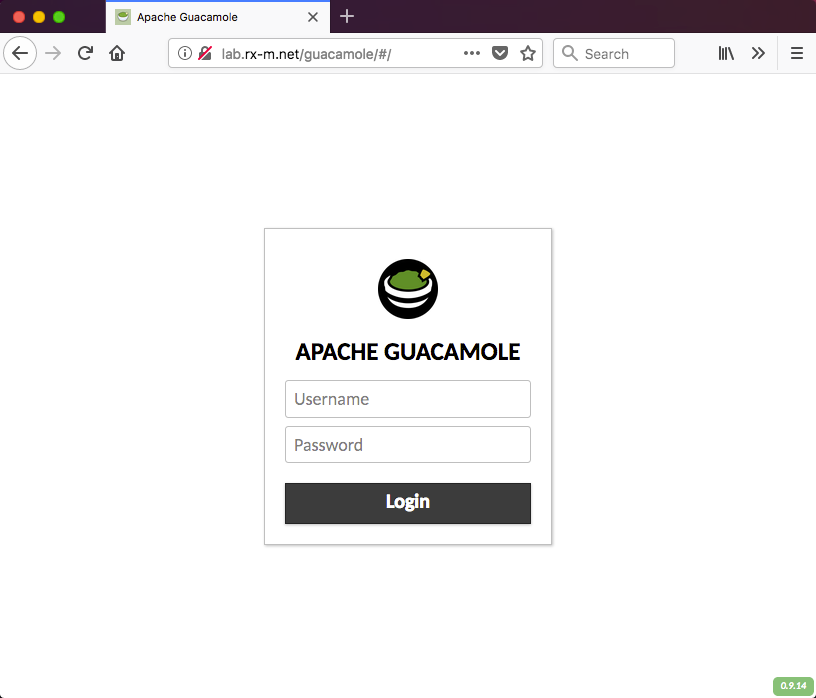
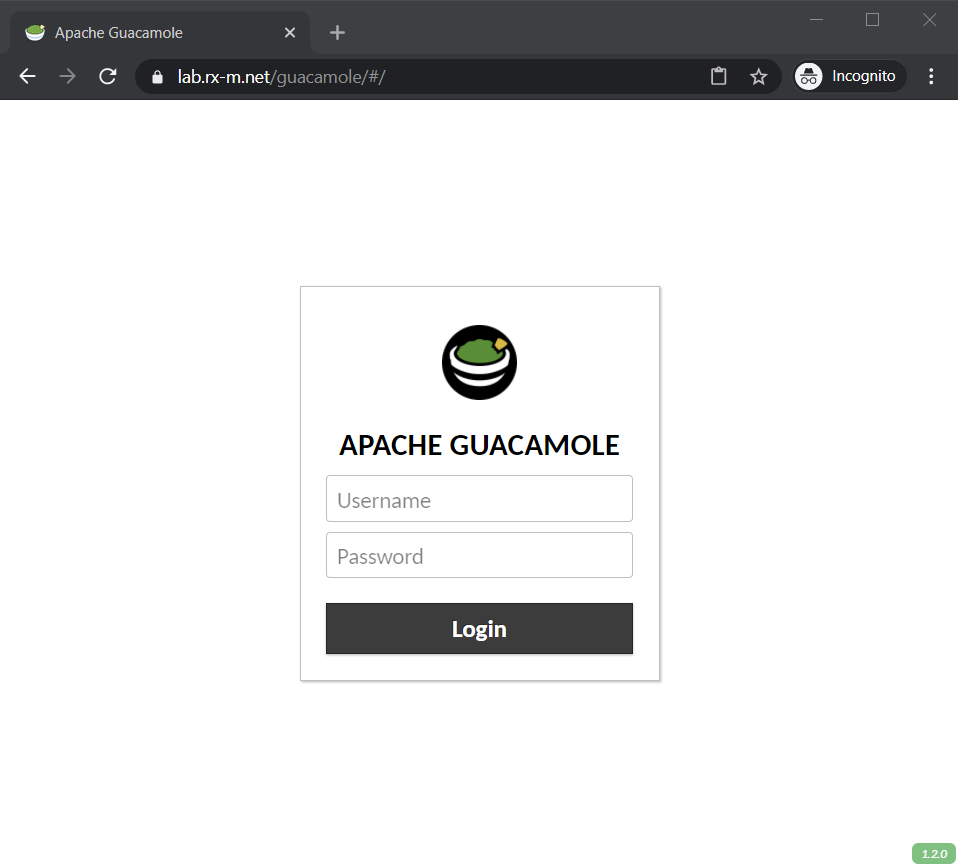
http > https in lab testing doc

Changed region(s): [[0.0, 0.0, 1.0, 0.1203], [0.3064, 0.3309, 0.7047, 0.7822], [0.9498, 0.9628, 1.0, 1.0]]

diff --git a/rx-m-hosted-lab-setup.md b/rx-m-hosted-lab-setup.md
@@ -11,7 +11,7 @@ environment in an Amazon Web Services (AWS) regional datacenter.
 
 ### RX-M hosted lab network requirements
 
-Students will need access to http://lab.rx-m.net/guacamole/ which is a clientless remote desktop gateway powered by the
+Students will need access to https://lab.rx-m.net/guacamole/ which is a clientless remote desktop gateway powered by the
 open source Apache Guacamole project and backed by an AWS Elastic Compute Cloud (EC2) virtual machine instance. From
 this gateway, students will have access to the lab environment and any related resources associated with the training
 class.
@@ -42,11 +42,11 @@ can be allowed upon request by customers/partners.)
 To access the RX-M hosted lab environment, use an HTML5-compatible browser, such as Firefox, Internet Explorer 10 or
 higher, or Google Chrome
 
-1. Open your Internet browser and go to http://lab.rx-m.net/guacamole/
+1. Open your Internet browser and go to https://lab.rx-m.net/guacamole/
 
 <br><img alt="login" width="400px" src="./images/01-login-page.png"/><br>
 
-2. Log in as `student01` with the password `ubuntu`
+2. Log in with the username and password provided by RX-M for the test.
 
 <br><img alt="login" width="400px" src="./images/02-login.png"/><br>
 
@@ -70,4 +70,4 @@ environment.
 
 _Copyright (c) 2020 RX-M LLC, Cloud Native Consulting, all rights reserved_
 
-[RX-M LLC]: http://rx-m.io/rxm-cnc.svg "RX-M LLC"
+[RX-M LLC]: https://rx-m.io/rxm-cnc.svg "RX-M LLC"
